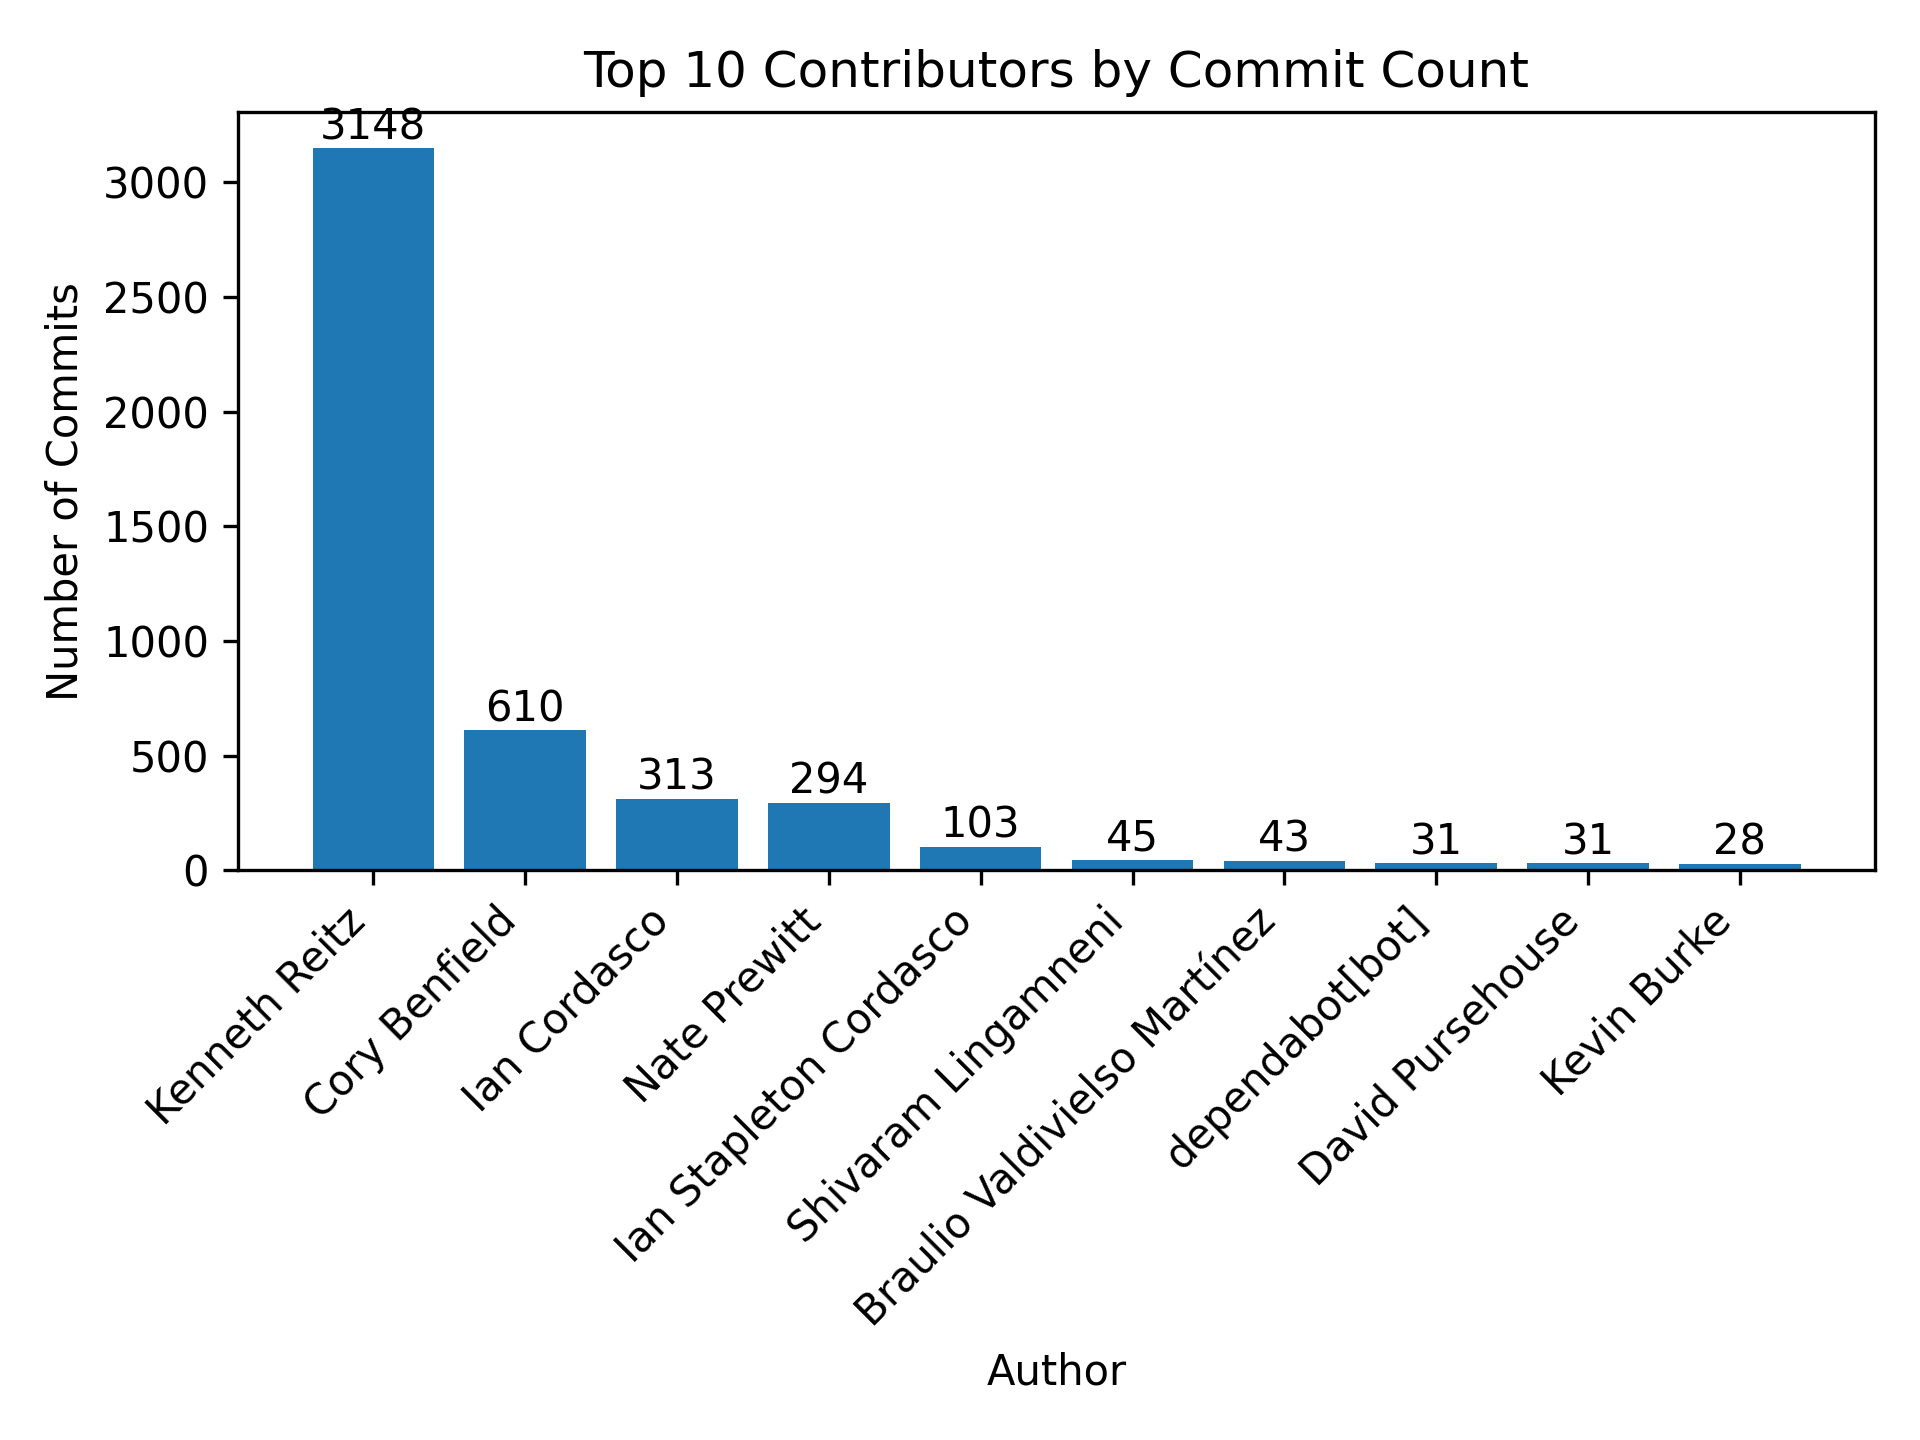
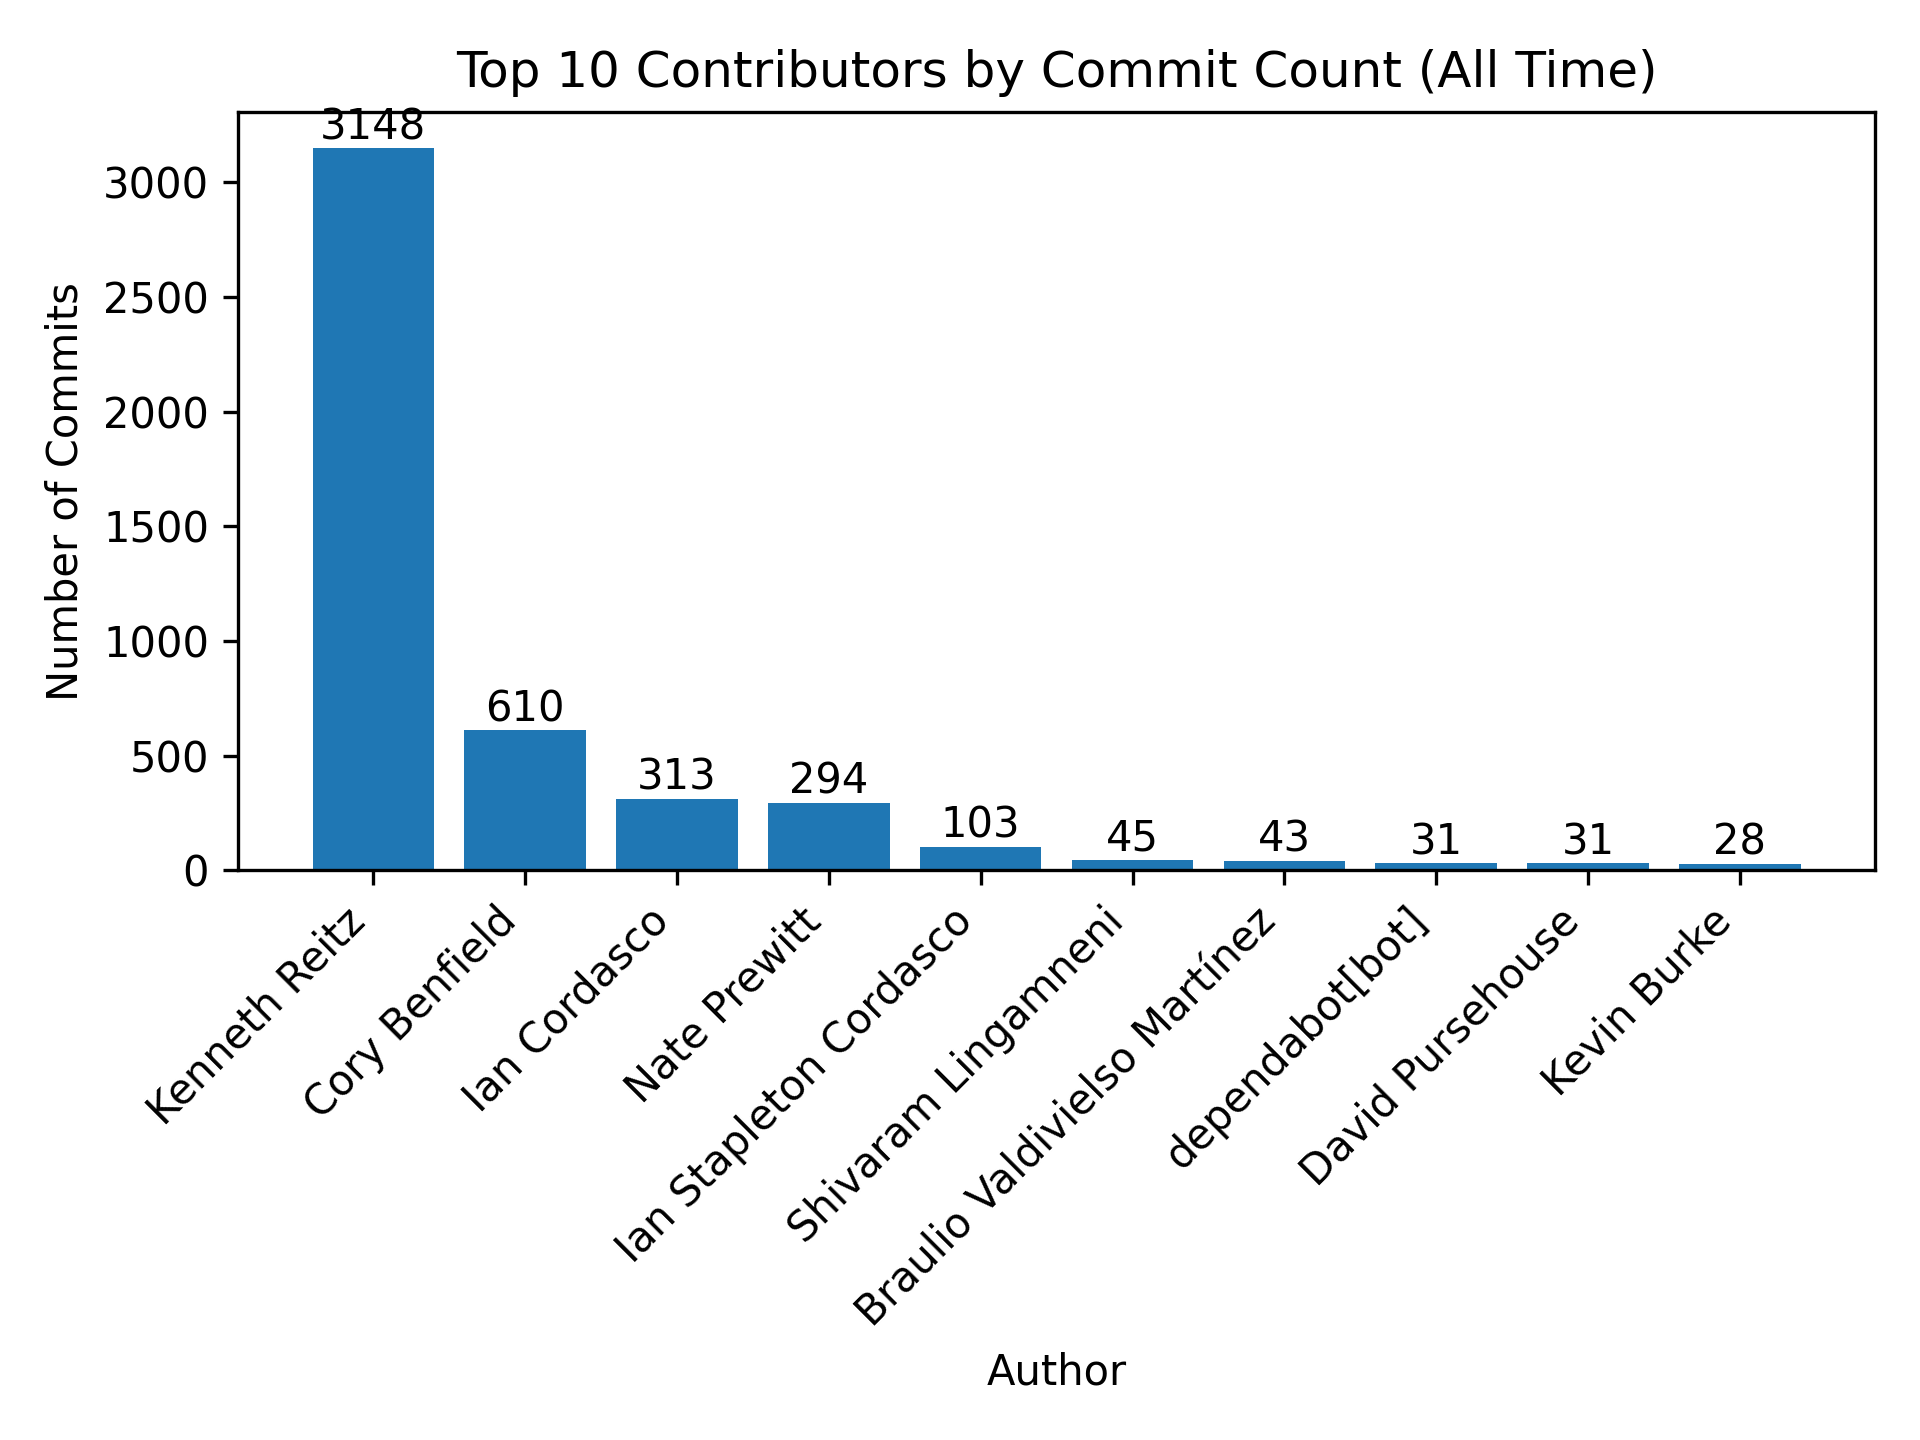
test-branch:修改analyze_commits.py，增加了分析近五年和近两年数据的功能，重新生成图片

Changed region(s): [[0.2188, 0.0312, 0.875, 0.0625]]

diff --git a/analyze_commits.py b/analyze_commits.py
@@ -1,133 +1,133 @@
 import matplotlib.pyplot as plt
 from collections import Counter
 from pathlib import Path
+from datetime import datetime
 
+# 配置文件路径和输出目录
 file_path = "requests_commits.csv"
-
 output_dir = Path("analyze_commits_figures")
 output_dir.mkdir(exist_ok=True)
 
+# 读取提交数据
 commits = []
-
-# 读取数据
-
 with open(file_path, "r", encoding="utf-8") as f:
     header = f.readline() 
     for line in f:
         line = line.strip()
         if not line:
             continue
-
         parts = line.split(",", 3)
         if len(parts) < 4:
             continue
-
         commits.append({
             "author": parts[1].strip(),
             "time": parts[2].strip(),
             "message": parts[3].strip()
         })
 
-# 作者提交次数（只记录前十名）
+# -------------------------- 封装可复用函数 --------------------------
+def plot_top_contributors(commits_data, title, save_name):
+    """绘制Top10贡献者柱状图"""
+    author_counter = Counter(c["author"] for c in commits_data)
+    top_authors = author_counter.most_common(10)
+    if not top_authors:  # 处理空数据
+        print(f"警告：{title} 无数据可展示")
+        return
+    
+    authors = [a for a, _ in top_authors]
+    author_counts = [c for _, c in top_authors]
 
-author_counter = Counter(c["author"] for c in commits)
-top_authors = author_counter.most_common(10)
+    plt.figure()
+    bars = plt.bar(authors, author_counts)
+    plt.xticks(rotation=45, ha="right")
+    plt.xlabel("Author")
+    plt.ylabel("Number of Commits")
+    plt.title(title)
+    for bar, count in zip(bars, author_counts):
+        height = bar.get_height()
+        plt.text(bar.get_x() + bar.get_width()/2, height + 0.5,
+                 str(count), ha='center', va='bottom', fontsize=10)
+    plt.tight_layout()
+    plt.savefig(output_dir/save_name, dpi=300)
+    plt.close()
 
-authors = [a for a, _ in top_authors]
-author_counts = [c for _, c in top_authors]
+def analyze_commit_types(commits_data):
+    """分析提交类型并返回类型列表和对应数量"""
+    merge = dependency = bugfix = feature = 0
+    refactor = docs = test = release = maintenance = other = 0
 
-plt.figure()
-bars = plt.bar(authors, author_counts)
-plt.xticks(rotation=45, ha="right")
-plt.xlabel("Author")
-plt.ylabel("Number of Commits")
-plt.title("Top 10 Contributors by Commit Count")
-for bar, count in zip(bars, author_counts):
-    height = bar.get_height()
-    plt.text(bar.get_x() + bar.get_width()/2, height + 0.5,
-             str(count), ha='center', va='bottom', fontsize=10)
-plt.tight_layout()
-plt.savefig(output_dir/"top_10_contributors.png", dpi=300)
-plt.close()
+    for c in commits_data:
+        msg = c["message"].lower()
+        if msg.startswith("merge pull request"):
+            merge += 1
+        elif "bump" in msg or "dependabot" in msg:
+            dependency += 1
+        elif "release" in msg or msg.startswith("v"):
+            release += 1
+        elif "fix" in msg or "bug" in msg or "error" in msg:
+            bugfix += 1
+        elif "add" in msg or "feature" in msg or "support" in msg or "implement" in msg:
+            feature += 1
+        elif "refactor" in msg or "cleanup" in msg or "restructure" in msg:
+            refactor += 1
+        elif "doc" in msg or "docs" in msg or "readme" in msg:
+            docs += 1
+        elif "test" in msg or "ci" in msg or "workflow" in msg:
+            test += 1
+        elif any(k in msg for k in [
+            "update", "improve", "change", "adjust", "remove",
+            "minor", "tweak", "simplify", "optimize", "handle", "use"
+        ]):
+            maintenance += 1
+        else:
+            other += 1
 
-# 提交类型分布
+    types = [
+        "Merge PR", "Dependency", "Release", "Bug Fix", "Feature",
+        "Refactor", "Docs", "Test", "Maintenance", "Other"
+    ]
+    type_counts = [merge, dependency, release, bugfix, feature,
+                   refactor, docs, test, maintenance, other]
+    return types, type_counts
 
-merge = dependency = bugfix = feature = 0
-refactor = docs = test = release = maintenance = other = 0
+def plot_commit_types(commits_data, title, save_name):
+    """绘制提交类型分布柱状图"""
+    types, type_counts = analyze_commit_types(commits_data)
+    if sum(type_counts) == 0:  # 处理空数据
+        print(f"警告：{title} 无数据可展示")
+        return
+    
+    plt.figure()
+    bars = plt.bar(types, type_counts)
+    plt.xlabel("Commit Type")
+    plt.ylabel("Number of Commits")
+    plt.title(title)
+    plt.xticks(rotation=30, ha="right")
+    for bar, count in zip(bars, type_counts):
+        height = bar.get_height()
+        plt.text(bar.get_x() + bar.get_width()/2, height + 0.5,
+                 str(count), ha='center', va='bottom', fontsize=10)
+    plt.tight_layout()
+    plt.savefig(output_dir/save_name, dpi=300)
+    plt.close()
 
-for c in commits:
-    msg = c["message"].lower()
+# -------------------------- 原有功能 --------------------------
+# 1. 全部数据 - Top10贡献者
+plot_top_contributors(
+    commits,
+    title="Top 10 Contributors by Commit Count (All Time)",
+    save_name="top_10_contributors.png"
+)
 
-    if msg.startswith("merge pull request"):
-        merge += 1
-    elif "bump" in msg or "dependabot" in msg:
-        dependency += 1
-    elif "release" in msg or msg.startswith("v"):
-        release += 1
-    elif "fix" in msg or "bug" in msg or "error" in msg:
-        bugfix += 1
-    elif "add" in msg or "feature" in msg or "support" in msg or "implement" in msg:
-        feature += 1
-    elif "refactor" in msg or "cleanup" in msg or "restructure" in msg:
-        refactor += 1
-    elif "doc" in msg or "docs" in msg or "readme" in msg:
-        docs += 1
-    elif "test" in msg or "ci" in msg or "workflow" in msg:
-        test += 1
-    elif any(k in msg for k in [           # 将日常维护等计入此类
-    "update", "improve", "change", "adjust", "remove",
-    "minor", "tweak", "simplify", "optimize", "handle", "use"
-    ]):
-        maintenance += 1
-    else:
-        other += 1
+# 2. 全部数据 - 提交类型分布
+plot_commit_types(
+    commits,
+    title="Fine-grained Commit Type Distribution (All Time)",
+    save_name="commit_type.png"
+)
 
-types = [
-    "Merge PR",
-    "Dependency",
-    "Release",
-    "Bug Fix",
-    "Feature",
-    "Refactor",
-    "Docs",
-    "Test",
-    "Maintenance",
-    "Other"
-]
-
-type_counts = [
-    merge,
-    dependency,
-    release,
-    bugfix,
-    feature,
-    refactor,
-    docs,
-    test,
-    maintenance,
-    other
-]
-
-plt.figure()
-bars = plt.bar(types, type_counts)
-plt.xlabel("Commit Type")
-plt.ylabel("Number of Commits")
-plt.title("Fine-grained Commit Type Distribution")
-plt.xticks(rotation=30, ha="right")
-for bar, count in zip(bars, type_counts):
-    height = bar.get_height()
-    plt.text(bar.get_x() + bar.get_width()/2, height + 0.5,
-             str(count), ha='center', va='bottom', fontsize=10)
-plt.tight_layout()
-plt.savefig(output_dir/"commit_type.png", dpi=300)
-plt.close()
-
-
-
-# 按月份提交统计
-
+# 3. 年度提交统计
 yearly_counter = Counter()
-
 for c in commits:
     year = c["time"][:4]
     yearly_counter[year] += 1
@@ -140,9 +140,66 @@ plt.plot(years, year_counts, marker="o")
 plt.xticks(rotation=45, ha="right")
 plt.xlabel("Year")
 plt.ylabel("Number of Commits")
-plt.title("Yearly Commit Activity")
+plt.title("Yearly Commit Activity (All Time)")
 for i, (x, y) in enumerate(zip(years, year_counts)):
     plt.text(x, y + 10.5, str(y), ha='center', va='bottom', fontsize=9)
 plt.tight_layout()
 plt.savefig(output_dir/"yearly_commit.png", dpi=300)
 plt.close()
+
+# -------------------------- 新增：近五年/近两年数据分析 --------------------------
+# 提取所有提交的年份
+for c in commits:
+    # 确保时间格式有效（兼容常见的YYYY-MM-DD等格式）
+    try:
+        c["year_int"] = int(c["time"][:4])
+    except (ValueError, IndexError):
+        c["year_int"] = None
+
+# 过滤掉无效年份的数据
+valid_commits = [c for c in commits if c["year_int"] is not None]
+if not valid_commits:
+    print("错误：无有效时间的提交数据，无法分析近五年/近两年数据")
+else:
+    # 获取最新年份
+    latest_year = max(c["year_int"] for c in valid_commits)
+    
+    # 1. 近五年数据筛选（latest_year-4 ~ latest_year）
+    five_years_range = range(latest_year - 4, latest_year + 1)
+    five_years_commits = [c for c in valid_commits if c["year_int"] in five_years_range]
+    
+    # 2. 近两年数据筛选（latest_year-1 ~ latest_year）
+    two_years_range = range(latest_year - 1, latest_year + 1)
+    two_years_commits = [c for c in valid_commits if c["year_int"] in two_years_range]
+
+    # -------------------------- 近五年分析 --------------------------
+    # 近五年 - Top10贡献者
+    plot_top_contributors(
+        five_years_commits,
+        title=f"Top 10 Contributors ({latest_year-4} - {latest_year})",
+        save_name=f"top_10_contributors_5years.png"
+    )
+    
+    # 近五年 - 提交类型分布
+    plot_commit_types(
+        five_years_commits,
+        title=f"Commit Type Distribution ({latest_year-4} - {latest_year})",
+        save_name=f"commit_type_5years.png"
+    )
+
+    # -------------------------- 近两年分析 --------------------------
+    # 近两年 - Top10贡献者
+    plot_top_contributors(
+        two_years_commits,
+        title=f"Top 10 Contributors ({latest_year-1} - {latest_year})",
+        save_name=f"top_10_contributors_2years.png"
+    )
+    
+    # 近两年 - 提交类型分布
+    plot_commit_types(
+        two_years_commits,
+        title=f"Commit Type Distribution ({latest_year-1} - {latest_year})",
+        save_name=f"commit_type_2years.png"
+    )
+
+print("分析完成！所有图表已保存至:", output_dir.absolute())
